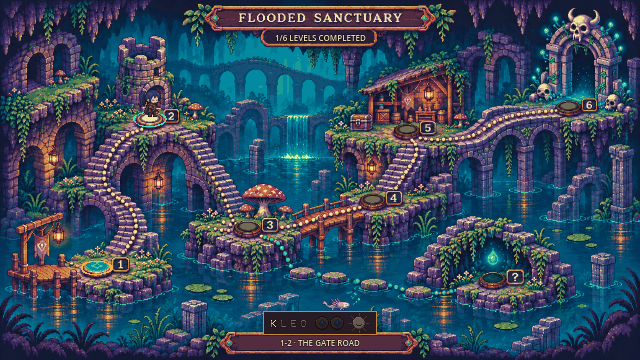
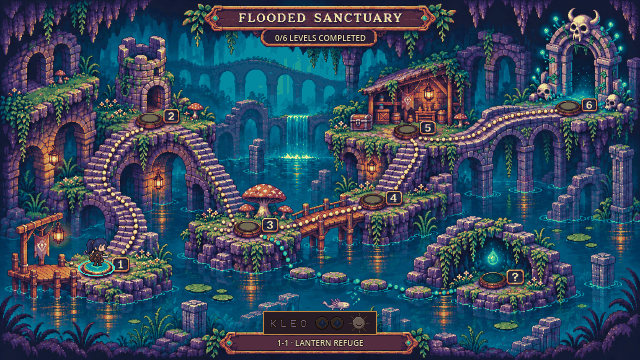
The map's names, and its path to the secret
The creative lead: use the map names and follow the map. Region 1 is
Flooded Sanctuary; 1-1 is Lantern Refuge (files and node keep the old
name); the secret level hangs off pad 3, so its hidden exit goes in 1-3.

Claude-Session: https://claude.ai/code/session_01MbTDeRLoeBWBKuDWosiWk5

Changed region(s): [[0.125, 0.6417, 0.1875, 0.7639], [0.4375, 0.9167, 0.5625, 0.9778], [0.1875, 0.2444, 0.2812, 0.3667]]

diff --git a/design/game-structure.md b/design/game-structure.md
@@ -63,7 +63,7 @@ The vertical level can move (X-2 or X-4) where a region's story wants it.
 
 | # | Region | Biome and look | Teaches | Boss | Reward |
 |---|---|---|---|---|---|
-| 1 | **The Ironbark Wilds** | Bright day: a sunlit forest of great trees, orange earth banks with grey ruin stone, floating islands, clear ponds (`docs/mockups/platformer/bright_day/`) | Run, jump, ledge catch, the combo, water and pits, chests, false walls, crates to carry and stack, rafts and lifts | **The Keep's fallen warden** | **Ironbark Ward** |
+| 1 | **Flooded Sanctuary** (first called the Ironbark Wilds) | Bright day: a sunlit forest of great trees, orange earth banks with grey ruin stone, floating islands, clear ponds (`docs/mockups/platformer/bright_day/`) | Run, jump, ledge catch, the combo, water and pits, chests, false walls, crates to carry and stack, rafts and lifts | **The Keep's fallen warden** | **Ironbark Ward** |
 | 2 | **The Hearth-Plains** | Golden fields at late afternoon, silk orchards, windmills, Rootling villages, hay barns, butterflies | The Ward (parry, bash-dash), bounce silk, windmill sails, hay carts | **The Silk Mother** | **Barkgrip** |
 | 3 | **The Dusk-Drifter Wastes** | Ash dunes and glass flats under a violet dusk, slate canyons, nomad caravans, bone-white ruins, ember vents (orange and gold, never red) | Barkgrip (wall cling, wall jump) in canyons; sinking ash, ember geysers, wind | **The Cinder Warden** | **Emberwick** |
 | 4 | **Thornveil** (Fen-Stalker) | A lush swamp of giant roots and stilt huts, glowing fungi, fireflies; the first crimson Blight veins | Emberwick (burn bramble and silk, light braziers); rising and sinking water, sinking lily pads | **The Thornveil Reaper** | **Wing-Cloak** |
@@ -285,7 +285,8 @@ Each level hides:
   to go left). What the knots do when all are awake is undecided
   (**Proposed:** Morvath's test at the Foundry gate is gentler, or they open
   a last secret).
-- **In X-4 or X-5, a hidden exit** to the region's secret level.
+- **In X-4 or X-5, a hidden exit** to the region's secret level (region 1's
+  is in 1-3: the creative lead's map draws the secret's path from pad 3).
 
 Tells, always: motes drifting into a false wall, moss on its stones, a Resin
 bead trail leading off the path, a faint Anima glow at a bonus entrance.
@@ -369,18 +370,27 @@ and beauty.
   Prism**, a last level and the ending. The Lost Keep itself, "the last place
   taken back", is retaken in the epilogue.
 
-## 8. Region 1 in detail: the Ironbark Wilds
+## 8. Region 1 in detail: Flooded Sanctuary
+
+**Named by the creative lead's region map** (2026-11: "use the map names and
+follow the map"): the region is **Flooded Sanctuary** (it was the Ironbark
+Wilds in earlier drafts, and Book 3's kit keeps that name), and level 1-1 is
+**Lantern Refuge** (it was The Overgrown Ruins; its files and its node keep
+the old name so saves and tools still work). The map names no other level:
+1-2 to 1-B keep the names below until it does. **The map is followed where
+it and these docs differ:** the secret level is reached off pad 3, so
+**region 1's hidden exit is in 1-3**, not 1-4 or 1-5.
 
 The first region teaches the whole base kit in a teal forest of overgrown
 purple ruins, under a dusk sky with three moons.
 
 | Stop | Name | The idea | Where it comes from |
 |---|---|---|---|
-| 1-1 | **The Overgrown Ruins** | Run, jump, ledge catch, the combo, a water pit, chests, a false wall | **The mockup:** purple stone ruins in a teal forest, a timber stall on stone arches, a water pit crossed by a mushroom island, a chest on a high ledge, an arched doorway out, a far aqueduct, the black plant band along the bottom. Built new, on IB-03's kit |
+| 1-1 | **Lantern Refuge** | Run, jump, ledge catch, the combo, a water pit, chests, a false wall | **The mockup:** purple stone ruins in a teal forest, a timber stall on stone arches, a water pit crossed by a mushroom island, a chest on a high ledge, an arched doorway out, a far aqueduct, the black plant band along the bottom. Built new, on IB-03's kit |
 | 1-2 | **The Gate Road** | Hopping over water: small islands, then the big floating islands above | Lost Keep's IB-04 (its pool with six islands and the high path), made longer and horizontal |
-| 1-3 | **The Ruin Gardens** | The first vertical level: terraces, flights and floating islands climbing the hill to the cliff's arch | Lost Keep's IB-03 (already a climb), made 2 screens wide and 4 high |
+| 1-3 | **The Ruin Gardens** | **Hides the secret exit** (the map's path to the grotto leaves from pad 3). The first vertical level: terraces, flights and floating islands climbing the hill to the cliff's arch | Lost Keep's IB-03 (already a climb), made 2 screens wide and 4 high |
 | 1-4 | **The Aqueduct** | Things that really move: a raft on the aqueduct's channel and a counterweighted timber lift, first over ground, then over the gorge | New; the aqueduct of the mockup's backdrop, walked on |
-| 1-5 | **The Lantern Clearing** | The gauntlet: everything, the fighting enemy in numbers, at dusk turning to night; hides the secret exit | Lost Keep's IB-01 (the guard post), the way to the Keep |
+| 1-5 | **The Lantern Clearing** | The gauntlet: everything, the fighting enemy in numbers, at dusk turning to night (the secret exit moved to 1-3, after the map) | Lost Keep's IB-01 (the guard post), the way to the Keep |
 | 1-S | **The Hollow Oak** | A secret level inside the Great Ironbark | New |
 | 1-B | **The Keep Gate** | The fallen warden in the Keep's outer courtyard, under open sky | New |
 

diff --git a/CLAUDE.md b/CLAUDE.md
@@ -36,7 +36,7 @@ what is missing in every level.
 **State of each piece.**
 | Piece | State |
 |---|---|
-| 1-1 The Overgrown Ruins | Playable, dressed in the dusk kit under daylight. Waiting for Book 4's bright-day art and the creative lead's play |
+| 1-1 Lantern Refuge (first called The Overgrown Ruins; files and node keep that name) | Playable, dressed in the dusk kit under daylight. Waiting for Book 4's bright-day art and the creative lead's play |
 | 1-2 The Gate Road | A **blockout**, awaiting review. No art until it is approved |
 | 1-3 to 1-5, 1-S, 1-B | Not started (stops on the map, dim) |
 | World map, save file | Built, on the creative lead's painted region map ("Flooded Sanctuary") |
@@ -55,7 +55,11 @@ never a lantern**; blockout first, art last.
 - **"I was surprised that there was a boost in running"; "the boost is
   cool."** Decided: Kleo's stride stays. Levels are still designed for the
   plain jump; the stride is the skilled player's shortcut.
-The knots' hiding places and the map's look have not been commented on.
+- **"Use the map names and follow the map."** Decided: region 1 is
+  **Flooded Sanctuary** and level 1-1 is **Lantern Refuge**, as the creative
+  lead's region map has them; and the secret level is reached off pad 3, so
+  region 1's hidden exit goes in 1-3.
+The knots' hiding places have not been commented on.
 
 **What to do next, in order.**
 1. Take the creative lead's review of the 1-2 blockout and of this
@@ -665,12 +669,10 @@ xvfb-run -a godot --path . --fixed-fps 60 --audio-driver Dummy res://tests/playt
   (SF9's leaves and trunks keep their greens); a level lowers the sky to
   y -50 so the moons sit whole; the full-level map leaves out the parallax
   layers, so judge the look in `mode=shots`.
-- **The region map, awaiting the creative lead's word:** the region's name (the map says "Flooded
-  Sanctuary", the design docs "The Ironbark Wilds") and level 1's (the map
-  says "Lantern Refuge", the docs "The Overgrown Ruins"): the game shows the
-  docs' level names for now; the map's dusk look against region 1's
-  bright-day look; and that the map draws the secret's path from pad 3 (the
-  docs hide its exit in 1-4 or 1-5).
+- **Asked, not yet answered:** the map is dusk (dark teal and purple) while
+  region 1's levels are bright day by the creative lead's earlier decision.
+  "Follow the map" was taken to mean its names and its paths, **not** a
+  change of the levels' look: don't darken the levels on it.
 - **Awaiting the creative lead's word:** the thorn knots' hiding places and
   the banner stand-in. What waking every knot does is undecided.
 - 1-1's two bonus areas are still the old kinds (12 beads; a course), not

diff --git a/design/levels/ratings.md b/design/levels/ratings.md
@@ -12,7 +12,7 @@ mine.**
 
 | Level | Mark | Why | What would raise it |
 |---|---|---|---|
-| 1-1 The Overgrown Ruins | △ | It teaches seven things, so its beats don't share one idea; its gaps are all 4 tiles; its art is the dusk kit under daylight. Its secrets are its best part (the treetops, the knot behind the won bonus). | The bright-day kit (Book 4). A chain in the test beat: the log, the gap and the ruin mass each a step on from the last. |
+| 1-1 Lantern Refuge | △ | It teaches seven things, so its beats don't share one idea; its gaps are all 4 tiles; its art is the dusk kit under daylight. Its secrets are its best part (the treetops, the knot behind the won bonus). | The bright-day kit (Book 4). A chain in the test beat: the log, the gap and the ruin mass each a step on from the last. |
 | 1-2 The Gate Road | △ (a blockout) | One clear idea (hopping over water), a chain in the long pool, a rest, risky Resin, a high path, a knot that asks her to turn back. The twist's six floating islands still alternate up 2, down 2 like a metronome, and its finish is short. | Vary the twist's islands as the pool was varied (a narrow one, a far one, one with thorns at its middle). Play it. Then art. |
 | The systems arena | n/a | A test room. | |
 

diff --git a/design/levels/1-1_overgrown_ruins.md b/design/levels/1-1_overgrown_ruins.md
@@ -1,4 +1,8 @@
-# 1-1 The Overgrown Ruins (bright day; letters and bonus areas in)
+# 1-1 Lantern Refuge (bright day; letters and bonus areas in)
+
+First called The Overgrown Ruins; renamed after the creative lead's region
+map (2026-11). This file, the builder, the scene and the level's node keep
+the old name.
 
 Builder: `game/tools/build_l1_1.gd` → `game/scenes/levels/l1_1_overgrown_ruins.tscn`.
 Pictures: `docs/levels/1-1/blockout/` (the approved blockout: the poster and
